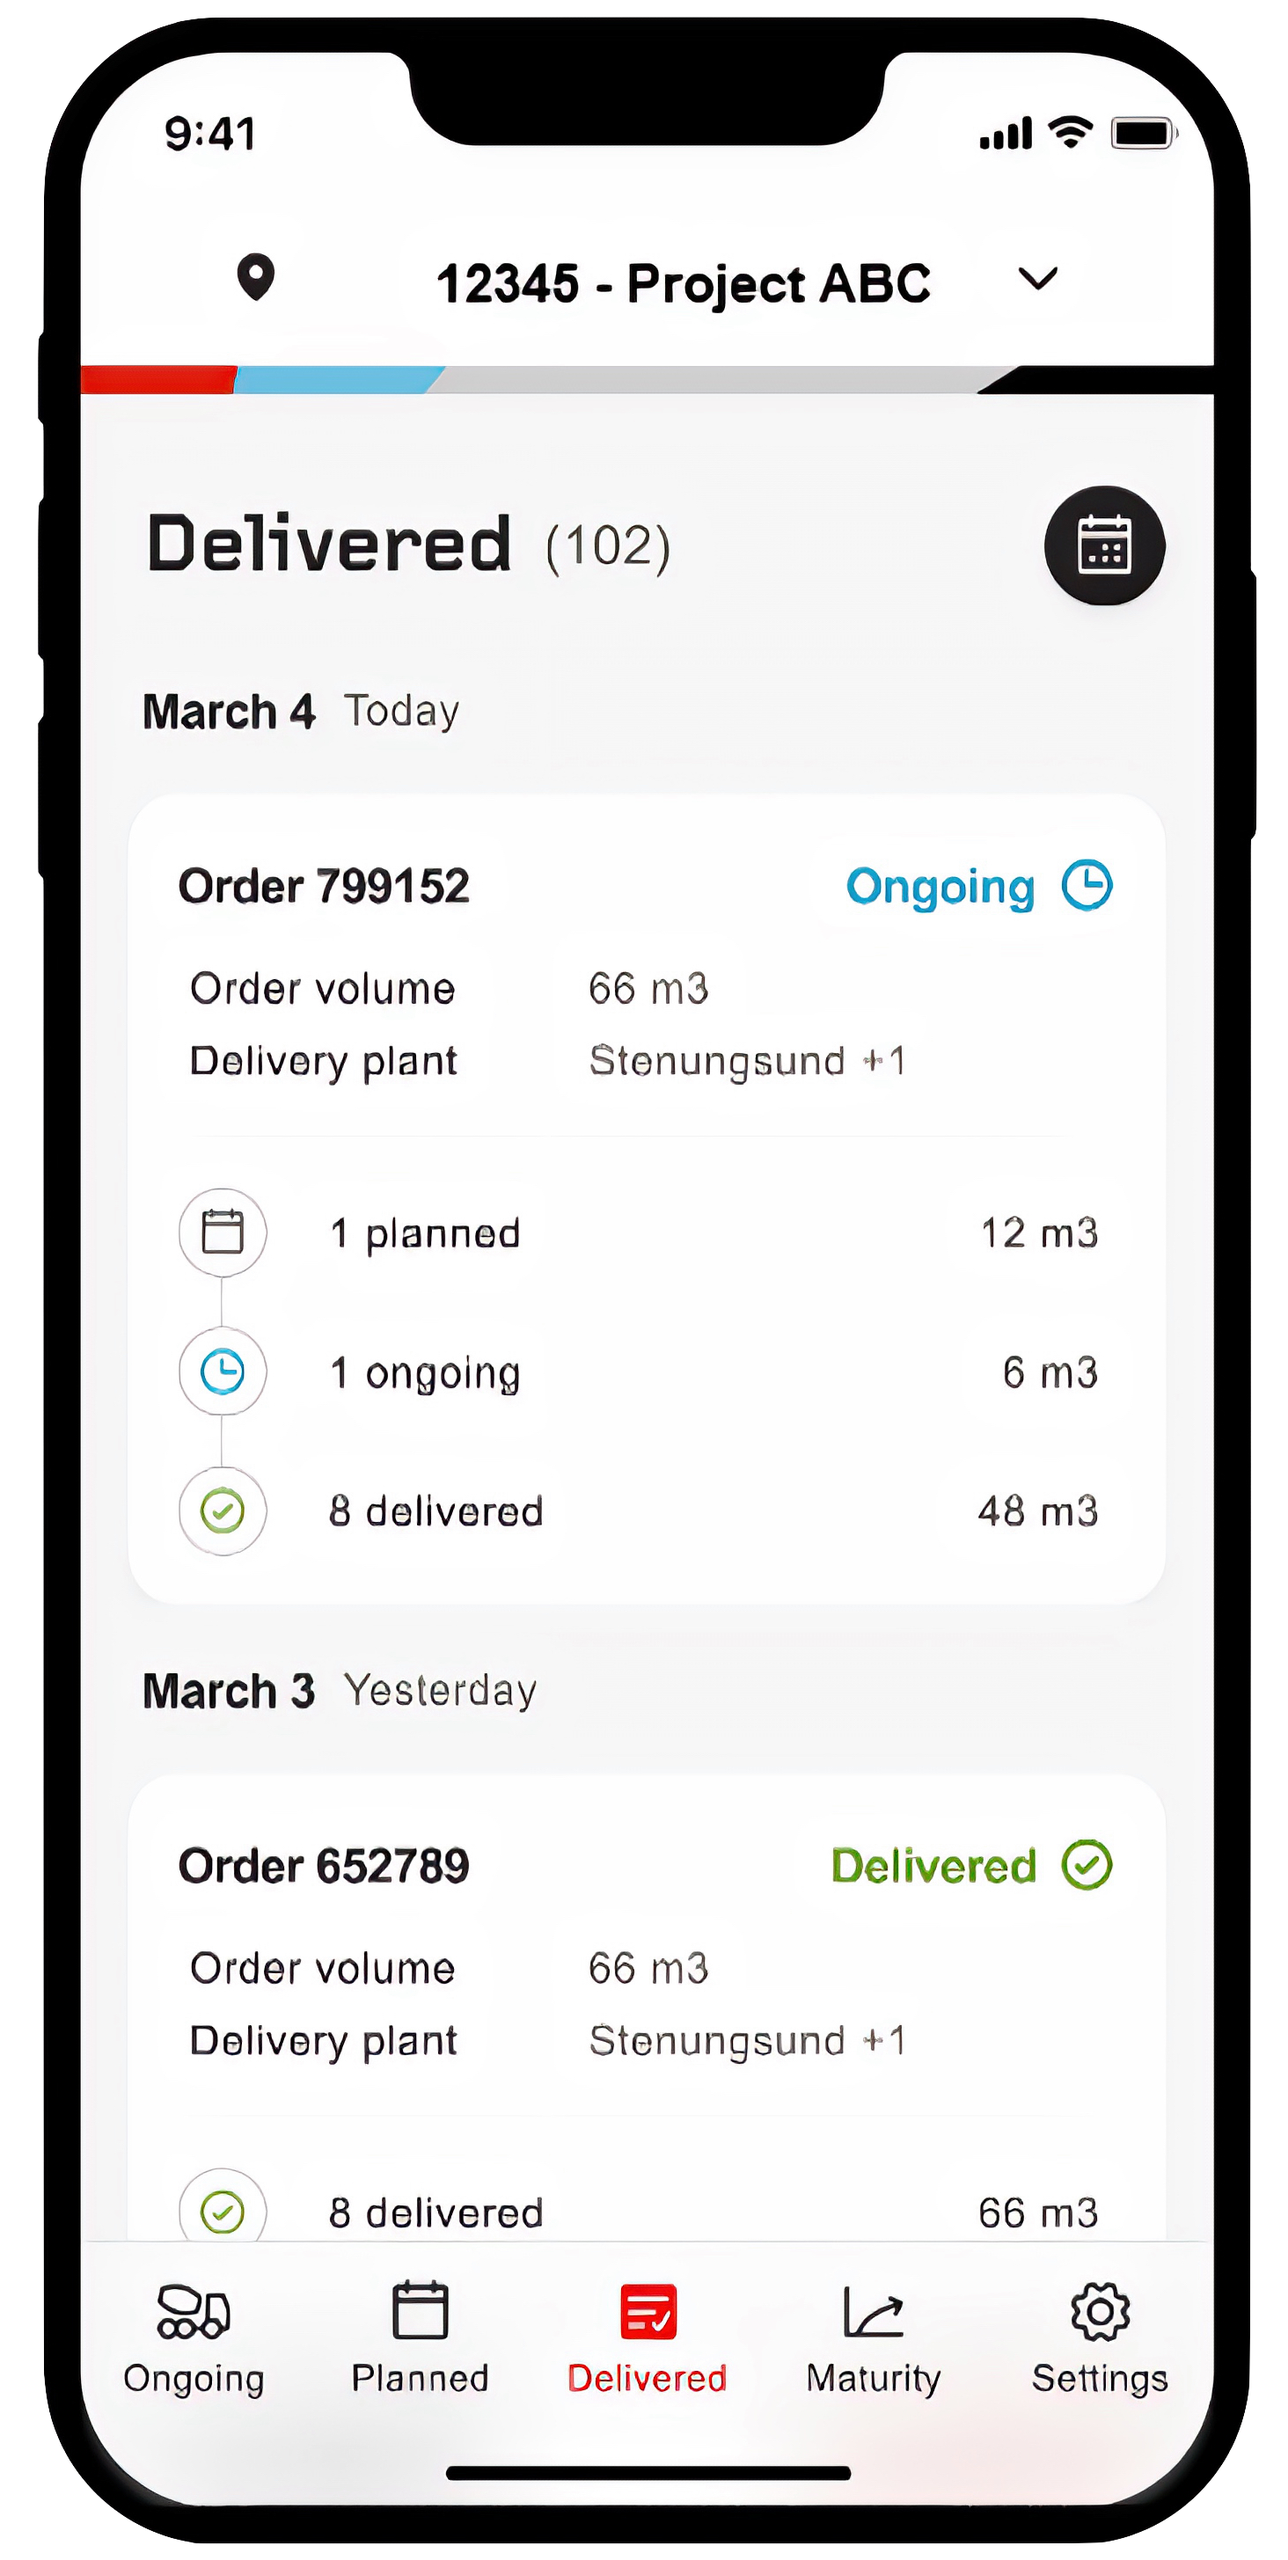
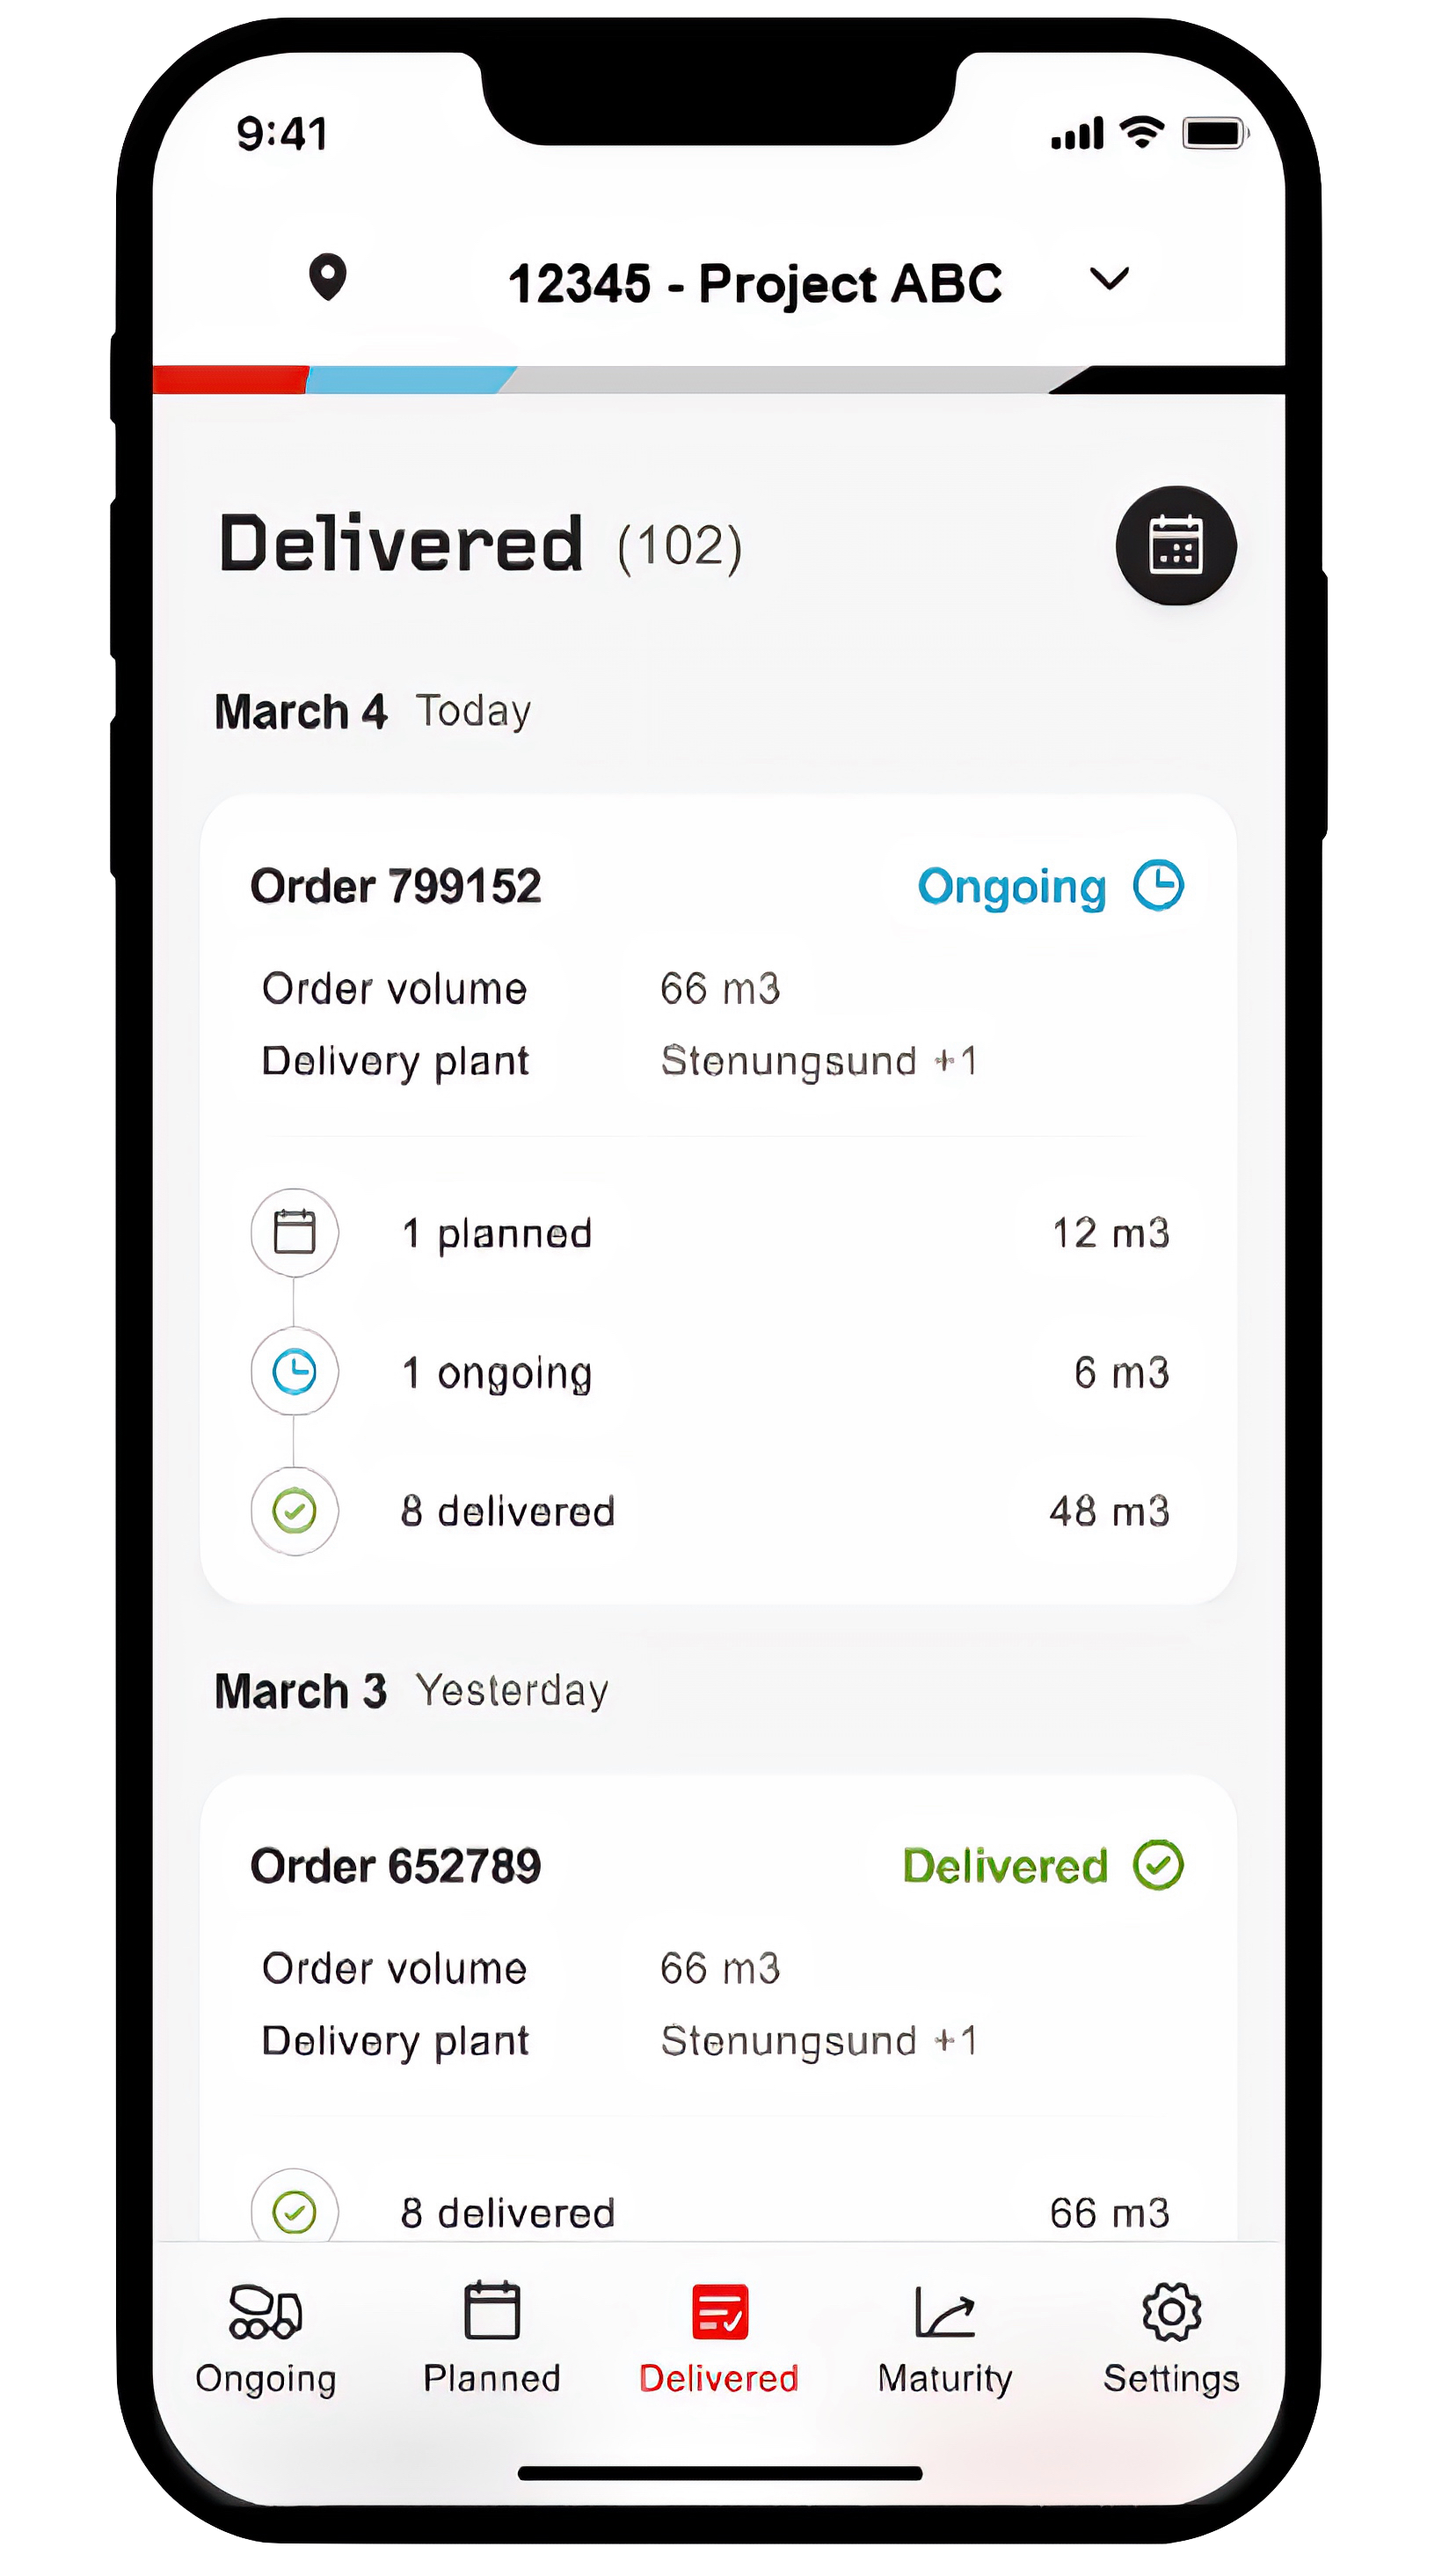
better project layout

diff --git a/app/(home)/components/Projects.tsx b/app/(home)/components/Projects.tsx
@@ -9,72 +9,181 @@ export type ProjectsProps = ComponentPropsWithoutRef<"div"> & {
   projects: Project[];
 };
 
-export function Projects({ projects, ...props }: ProjectsProps) {
+const projectKindClasses: Record<
+  Project["kind"],
+  {
+    aspect: string;
+    imageBasis: string;
+    contentBasis: string;
+    imageFrame: string;
+  }
+> = {
+  website: {
+    aspect: "aspect-4/3",
+    imageBasis: "xl:basis-1/2",
+    contentBasis: "xl:basis-1/2",
+    imageFrame:
+      "border-[3px] border-grey transition-colors hover:border-primary",
+  },
+  app: {
+    aspect: "aspect-[8/16]",
+    imageBasis: "xl:basis-1/3",
+    contentBasis: "xl:basis-2/3",
+    imageFrame: "",
+  },
+};
+
+type ProjectImageProps = {
+  project: Project;
+  kind: (typeof projectKindClasses)[Project["kind"]];
+  /** Flex basis / width segment for the image wrapper */
+  imageBasisClass: string;
+  className?: string;
+};
+
+function ProjectImage({
+  project,
+  kind,
+  imageBasisClass,
+  className = "",
+}: ProjectImageProps) {
   return (
-    <div {...props}>
-      <div className="flex flex-col gap-32 lg:gap-64">
-        {projects.map((project) => (
-          <div
-            key={`${project.name}-panel`}
-            className="flex w-full flex-col-reverse gap-8 md:px-16 xl:flex-row xl:p-0 xl:even:flex-row-reverse"
-          >
-            <Link
-              href={project.href}
-              target="_blank"
-              className="relative mt-8 block aspect-4/3 basis-1/2 border-[3px] border-grey transition-colors hover:border-primary xl:mt-0"
-            >
-              <Image
-                priority={true}
-                src={project.image}
-                alt={project.name}
-                fill
-                className="object-cover"
-              />
-              <div className="absolute flex h-full w-full opacity-0 transition-opacity hover:opacity-100">
-                <div className="absolute h-full w-full bg-brand-dark opacity-100" />
-                <p
-                  className={`${montserrat.className} z-10 m-auto text-2xl text-primary`}
-                >
-                  {`visit ${project.href.substring(8)}`}
-                </p>
-              </div>
-            </Link>
-            <div className="basis-full lg:basis-1/2">
-              <Link
-                href={project.href}
-                target="_blank"
-                className={`${montserrat.className} -ml-0.5 w-fit text-4xl transition-colors hover:text-primary`}
-              >
-                {project.name}
-                <span className="ml-2 inline-block">
-                  <Icon name="external-link" />
-                </span>
-              </Link>
-              <div className="mt-2 flex flex-wrap gap-x-8">
-                {project.tech.map((tech) => (
-                  <span key={tech} className="mt-2 tracking-widest text-grey">
-                    {tech}
-                  </span>
-                ))}
-              </div>
-              <p className="mt-12 whitespace-pre-line text-justify leading-loose tracking-wide">
-                {project.description}
-              </p>
-              {project.links &&
-                project.links.map((link) => (
-                  <Link
-                    key={link.href}
-                    href={link.href}
-                    target="_blank"
-                    className="mt-8 flex items-center gap-2 tracking-widest text-primary-dark transition-all duration-200 hover:gap-3 hover:text-primary"
-                  >
-                    {link.label} <Icon name="arrow-right" />
-                  </Link>
-                ))}
-            </div>
-          </div>
+    <Link
+      href={project.href}
+      target="_blank"
+      className={`relative block min-w-0 w-full xl:mt-0 ${kind.imageFrame} ${kind.aspect} ${imageBasisClass} ${className}`}
+    >
+      <Image
+        priority={true}
+        src={project.image}
+        alt={project.name}
+        fill
+        className="object-cover"
+      />
+      <div className="absolute flex h-full w-full opacity-0 transition-opacity hover:opacity-100">
+        <div className="absolute h-full w-full bg-brand-dark opacity-100" />
+        <p
+          className={`${montserrat.className} z-10 m-auto text-2xl text-primary`}
+        >
+          {`visit ${project.href.substring(8)}`}
+        </p>
+      </div>
+    </Link>
+  );
+}
+
+function ProjectHeader({
+  project,
+}: {
+  project: Project;
+}) {
+  return (
+    <div className="flex flex-col gap-2">
+      <Link
+        href={project.href}
+        target="_blank"
+        className={`${montserrat.className} -ml-0.5 w-fit text-4xl transition-colors hover:text-primary`}
+      >
+        {project.name}
+        <span className="ml-2 inline-block">
+          <Icon name="external-link" />
+        </span>
+      </Link>
+      <div className="mt-2 flex flex-wrap gap-x-8">
+        {project.tech.map((tech) => (
+          <span key={tech} className="mt-2 tracking-widest text-grey">
+            {tech}
+          </span>
         ))}
       </div>
     </div>
   );
-};
+}
+
+function ProjectBodyText({
+  project,
+  descriptionLeadClass,
+}: {
+  project: Project;
+  /** Space above description (title+tech live above only in the app column). */
+  descriptionLeadClass: string;
+}) {
+  return (
+    <>
+      <p
+        className={`whitespace-pre-line text-justify leading-loose tracking-wide ${descriptionLeadClass}`}
+      >
+        {project.description}
+      </p>
+      {project.links &&
+        project.links.map((link) => (
+          <Link
+            key={link.href}
+            href={link.href}
+            target="_blank"
+            className="mt-8 flex items-center gap-2 tracking-widest text-primary-dark transition-all duration-200 hover:gap-3 hover:text-primary"
+          >
+            {link.label} <Icon name="arrow-right" />
+          </Link>
+        ))}
+    </>
+  );
+}
+
+export function Projects({ projects, ...props }: ProjectsProps) {
+  return (
+    <div {...props}>
+      <div className="flex flex-col gap-32 lg:gap-64">
+        {projects.map((project) => {
+          const kind = projectKindClasses[project.kind];
+
+          if (project.kind === "app") {
+            return (
+              <div
+                key={`${project.name}-panel`}
+                className="flex w-full flex-col gap-12 md:px-16 xl:flex-row xl:items-start xl:p-0"
+              >
+                <ProjectImage
+                  project={project}
+                  kind={kind}
+                  imageBasisClass={kind.imageBasis}
+                  className="mt-8 xl:mt-0"
+                />
+                <div className={`min-w-0 w-full ${kind.contentBasis}`}>
+                  <ProjectHeader project={project} />
+                  <ProjectBodyText
+                    project={project}
+                    descriptionLeadClass="mt-12"
+                  />
+                </div>
+              </div>
+            );
+          }
+
+          return (
+            <div
+              key={`${project.name}-panel`}
+              className="flex w-full flex-col gap-12 md:px-16 xl:p-0"
+            >
+              <ProjectHeader project={project} />
+              <div className="flex w-full flex-col gap-12 xl:flex-row xl:items-start xl:gap-12">
+                <div className={`min-w-0 w-full ${kind.contentBasis}`}>
+                  <ProjectBodyText
+                    project={project}
+                    descriptionLeadClass="mt-0"
+                  />
+                </div>
+                <ProjectImage
+                  project={project}
+                  kind={kind}
+                  imageBasisClass={kind.imageBasis}
+                  className="mt-8 shrink-0 xl:mt-0"
+                />
+              </div>
+            </div>
+          );
+        })}
+      </div>
+    </div>
+  );
+}

diff --git a/data/projects.ts b/data/projects.ts
@@ -2,6 +2,7 @@ import { Project } from "@/lib";
 
 export const projects: Project[] = [
   {
+    kind: "website",
     image: "/volvo-used-equipment.jpeg",
     name: "Volvo Used Equipment",
     tech: [
@@ -15,5 +16,14 @@ export const projects: Project[] = [
     description:
       "A global marketplace for pre-owned Volvo construction equipment, built from the ground up. It is server rendered, and was designed with SEO as a first-class concern. I was the sole frontend developer, working closely with the client and backend team. The launch went smoothly, with zero reported issues. \n\n We leaned heavily on agentic development: from ticket management, to pull requests. While helping a lot, it performed well only because of my constant oversight, well managed skill sets and thorough planning of the entire project.",
     href: "https://used.volvoce.com/en",
+  },
+  {
+    kind: "app",
+    image: "/thomas-concrete.png",
+    name: "Thomas Concrete MyConcrete",
+    tech: ["React Native", "Expo", "Tanstack Query", "Zod"],
+    description:
+      "I led the React Native work on MyConcrete: standing up the Expo toolchain, an OTA update workflow, and the path to publishing on the App Stores. I partnered with the existing REST backend and the design team to tune flows and UI for people on-site with phones in hand.\n\nThe client’s priorities were frictionless cross-platform delivery, integration with services they already ran, and fast, dependable releases. We beat those expectations—quickly shipping a sharp, snappy app that delivers clear business value. My scope ran from feature planning and expectation-setting with the client to ongoing coordination with backend and design, plus hands-on UI implementation.",
+    href: "https://thomasconcretegroup.com/our-offer/digital-services/myconcrete/",
   },
 ];

diff --git a/lib/types.ts b/lib/types.ts
@@ -6,6 +6,8 @@ export type Project = {
   name: string;
   href: string;
   image: string;
+  /** Website: 4/3 image, half width. App: portrait (mobile) aspect, third width. */
+  kind: "website" | "app";
   description: string;
   tech: string[];
   links?: { label: string; href: string }[];
